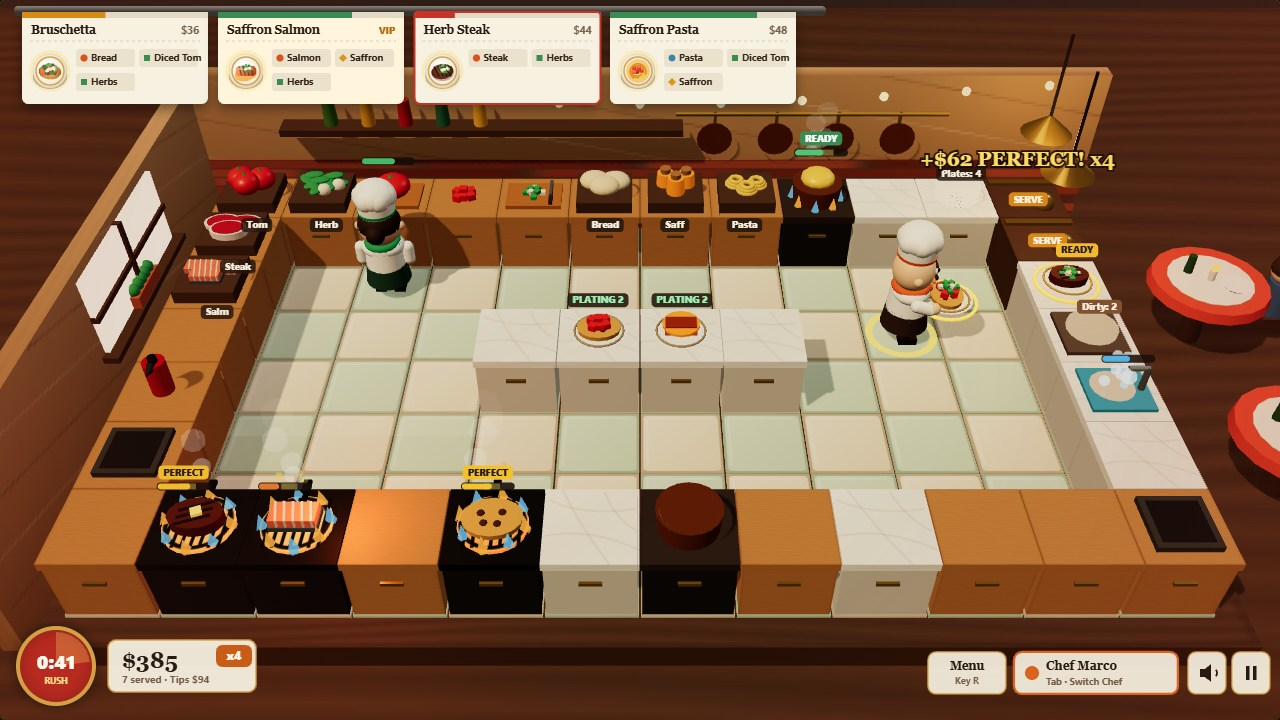
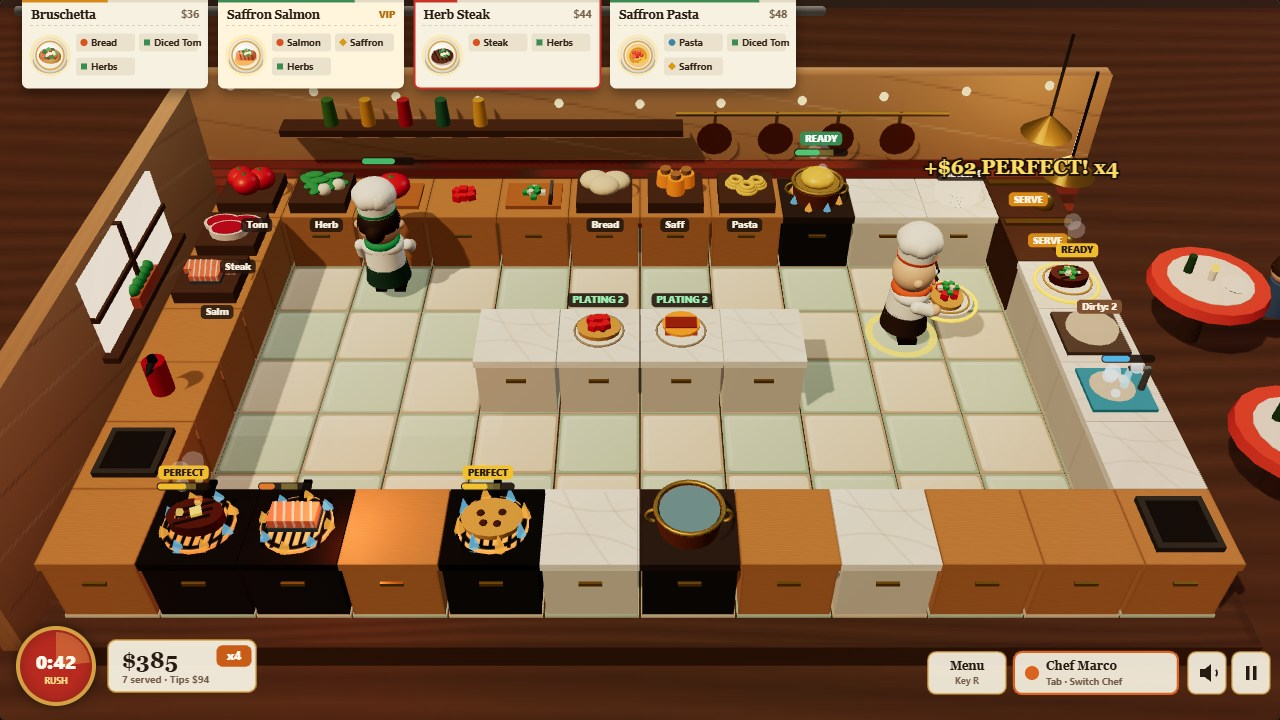
Fix Copper Stock Pot Z-fighting and update final 3D screenshots

diff --git a/game/src/scene3d.js b/game/src/scene3d.js
@@ -291,10 +291,10 @@ export function createKitchen3D(canvas, state) {
         }
       }
 
-      // Animated boiling pot bubbles & broth level
+      // Animated boiling pot bubbles & broth level (cleanly above pot interior, zero Z-fighting)
       if (node.brothMesh) {
-        node.brothMesh.position.y = 1.12 + Math.sin(time * 7 + st.col) * 0.018;
-        node.brothMesh.material.color.setHex(st.burnt ? 0x2e241f : st.item ? 0xf2ad2e : 0x6cb5c7);
+        node.brothMesh.position.y = 1.148 + Math.sin(time * 5 + st.col) * 0.005;
+        node.brothMesh.material.color.setHex(st.burnt ? 0x2e241f : st.item ? 0xf2ad2e : 0x8cd9ed);
       }
       if (node.boilBubbles) {
         const boiling = Boolean(st.item) && !st.burnt;
@@ -777,19 +777,48 @@ function buildStationNode(st, textures) {
     burnerFlames.position.y = 0.88;
     root.add(burnerFlames);
 
-    const pot = new THREE.Mesh(
-      new THREE.CylinderGeometry(0.35, 0.32, 0.3, 20),
-      new THREE.MeshStandardMaterial({ color: 0xc96b34, roughness: 0.24, metalness: 0.76 }),
-    );
-    pot.position.y = 1.0;
+    const copperMat = new THREE.MeshStandardMaterial({ color: 0xd97a3e, roughness: 0.26, metalness: 0.72 });
+    const brassMat = new THREE.MeshStandardMaterial({ color: 0xe8bc55, roughness: 0.22, metalness: 0.85 });
+
+    // Gleaming copper pot outer body (top at y=1.12)
+    const pot = new THREE.Mesh(new THREE.CylinderGeometry(0.35, 0.31, 0.26, 22), copperMat);
+    pot.position.y = 0.99;
     pot.castShadow = true;
     root.add(pot);
 
-    brothMesh = new THREE.Mesh(
-      new THREE.CylinderGeometry(0.31, 0.31, 0.04, 18),
-      new THREE.MeshStandardMaterial({ color: 0x6cb5c7, roughness: 0.18 }),
+    // Metallic brass rim (y=1.16) + two curved side loop handles
+    const rim = new THREE.Mesh(new THREE.TorusGeometry(0.345, 0.025, 8, 24), brassMat);
+    rim.rotation.x = Math.PI / 2;
+    rim.position.y = 1.16;
+    root.add(rim);
+
+    for (const sx of [-1, 1]) {
+      const potHandle = new THREE.Mesh(new THREE.TorusGeometry(0.085, 0.02, 8, 14, Math.PI), brassMat);
+      potHandle.rotation.z = sx * (-Math.PI / 2);
+      potHandle.position.set(sx * 0.35, 1.04, 0);
+      root.add(potHandle);
+    }
+
+    // Recessed dark steel pot interior (top at y=1.132)
+    const inner = new THREE.Mesh(
+      new THREE.CylinderGeometry(0.318, 0.30, 0.02, 20),
+      new THREE.MeshStandardMaterial({ color: 0x3b3330, roughness: 0.45, metalness: 0.55 }),
     );
-    brothMesh.position.y = 1.12;
+    inner.position.y = 1.122;
+    root.add(inner);
+
+    // Translucent simmering water / golden broth surface cleanly above interior (y=1.148)
+    brothMesh = new THREE.Mesh(
+      new THREE.CylinderGeometry(0.31, 0.31, 0.012, 20),
+      new THREE.MeshStandardMaterial({
+        color: 0x8cd9ed,
+        roughness: 0.12,
+        metalness: 0.1,
+        transparent: true,
+        opacity: 0.72,
+      }),
+    );
+    brothMesh.position.y = 1.148;
     root.add(brothMesh);
 
     boilBubbles = new THREE.Group();
